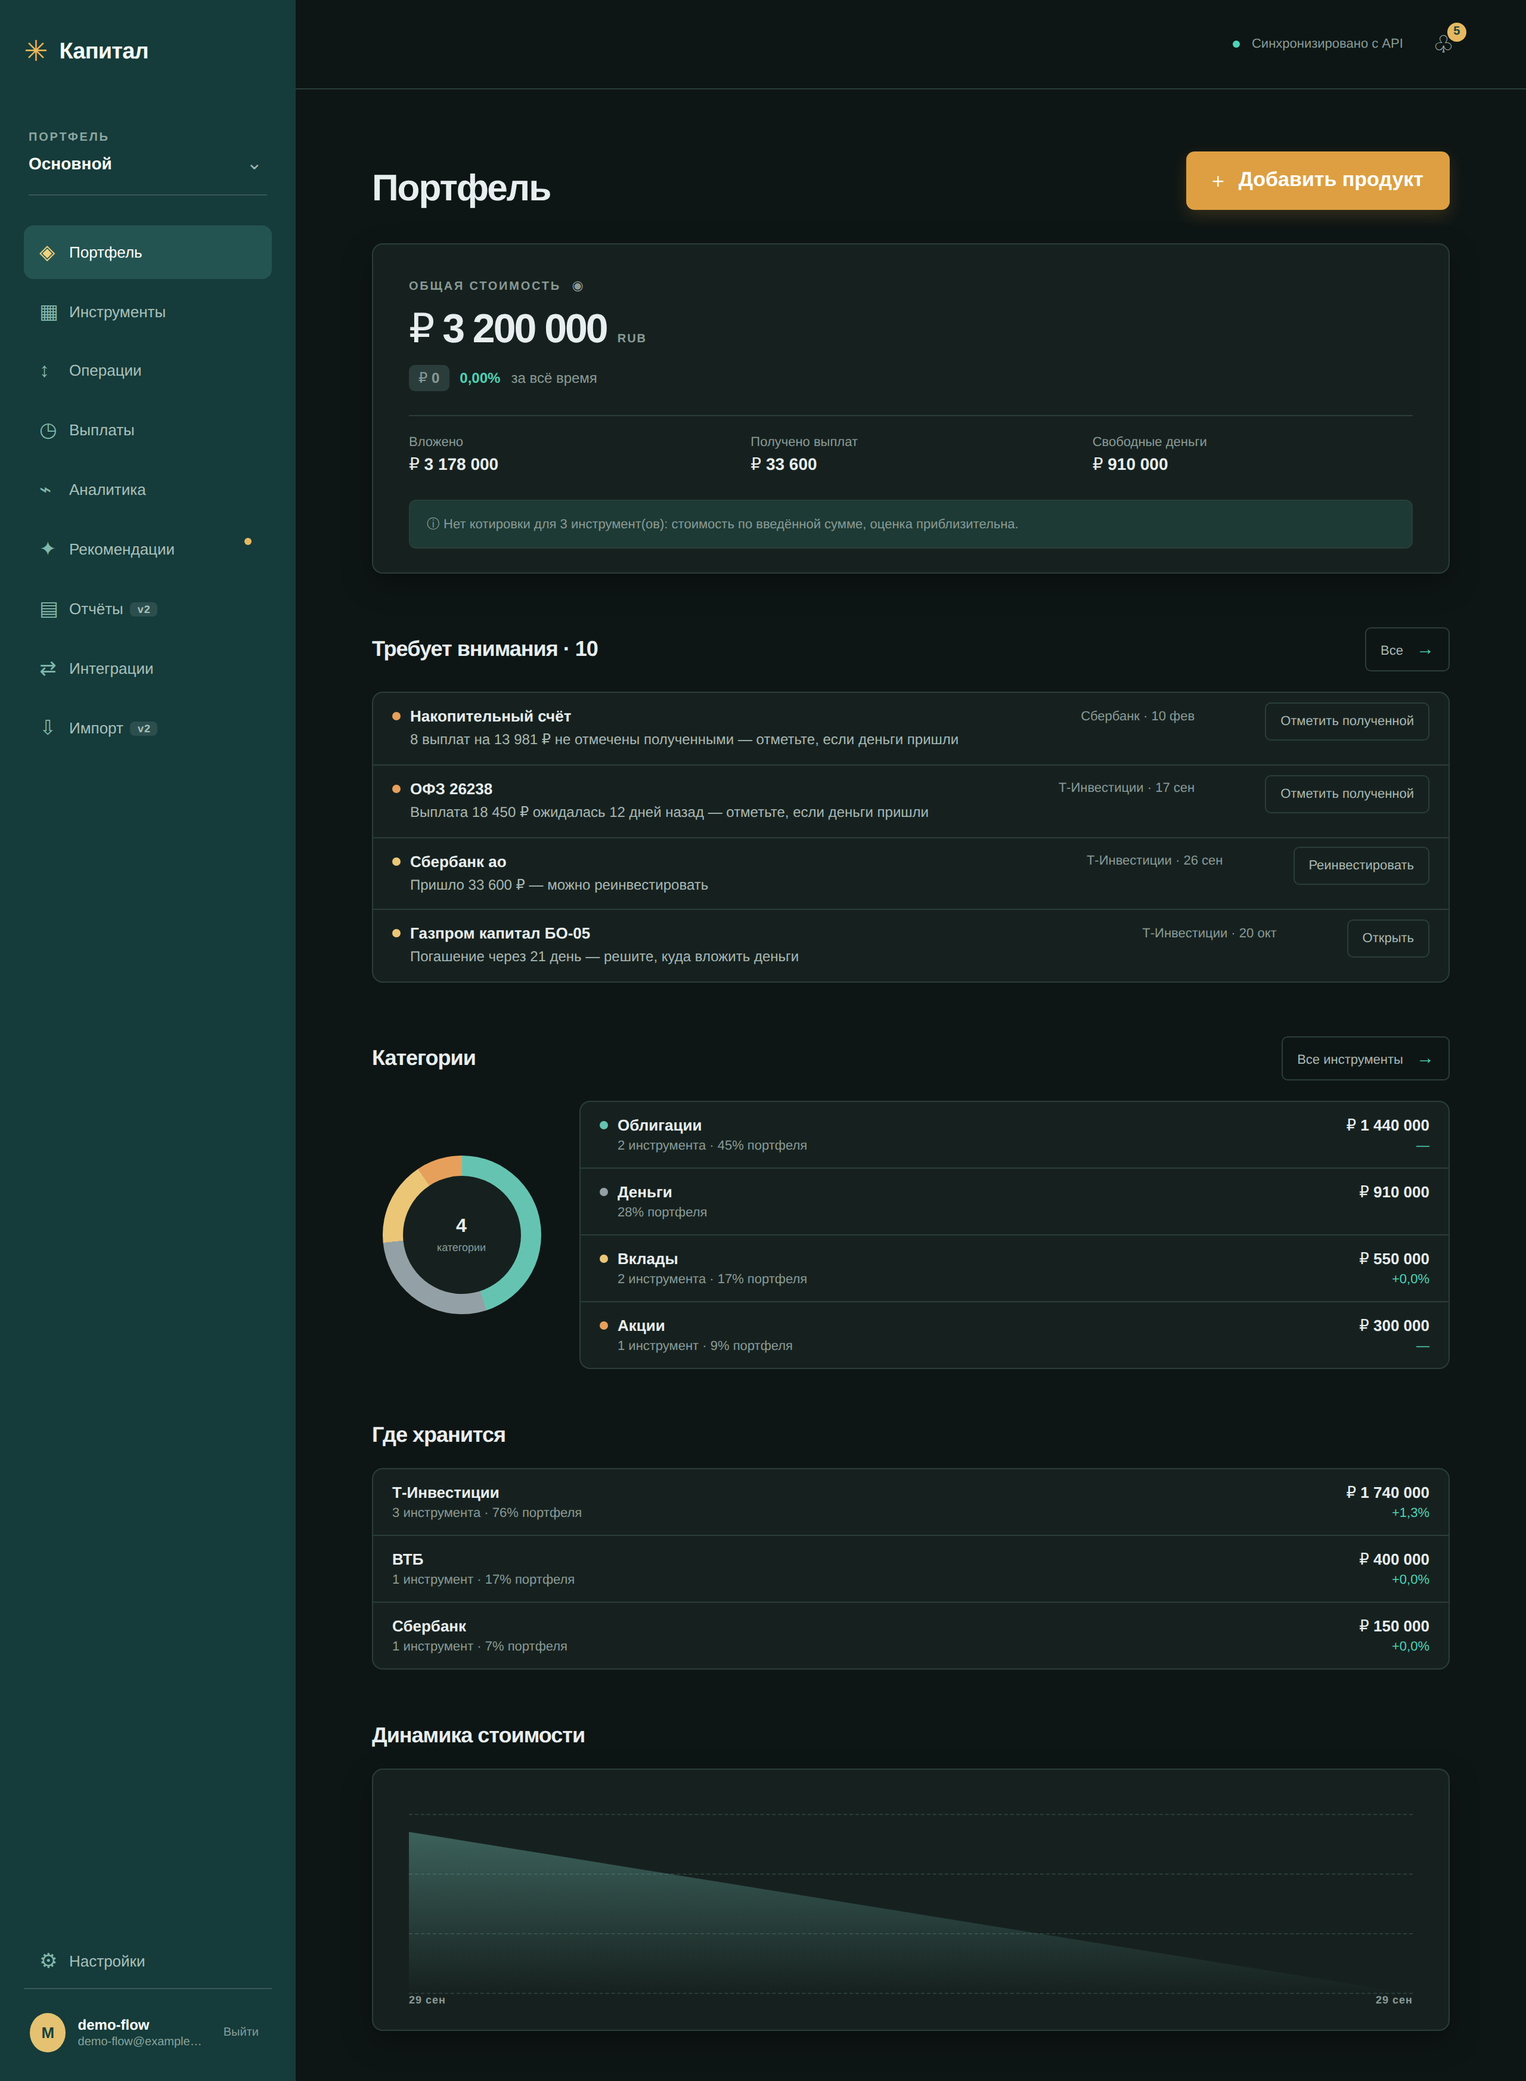
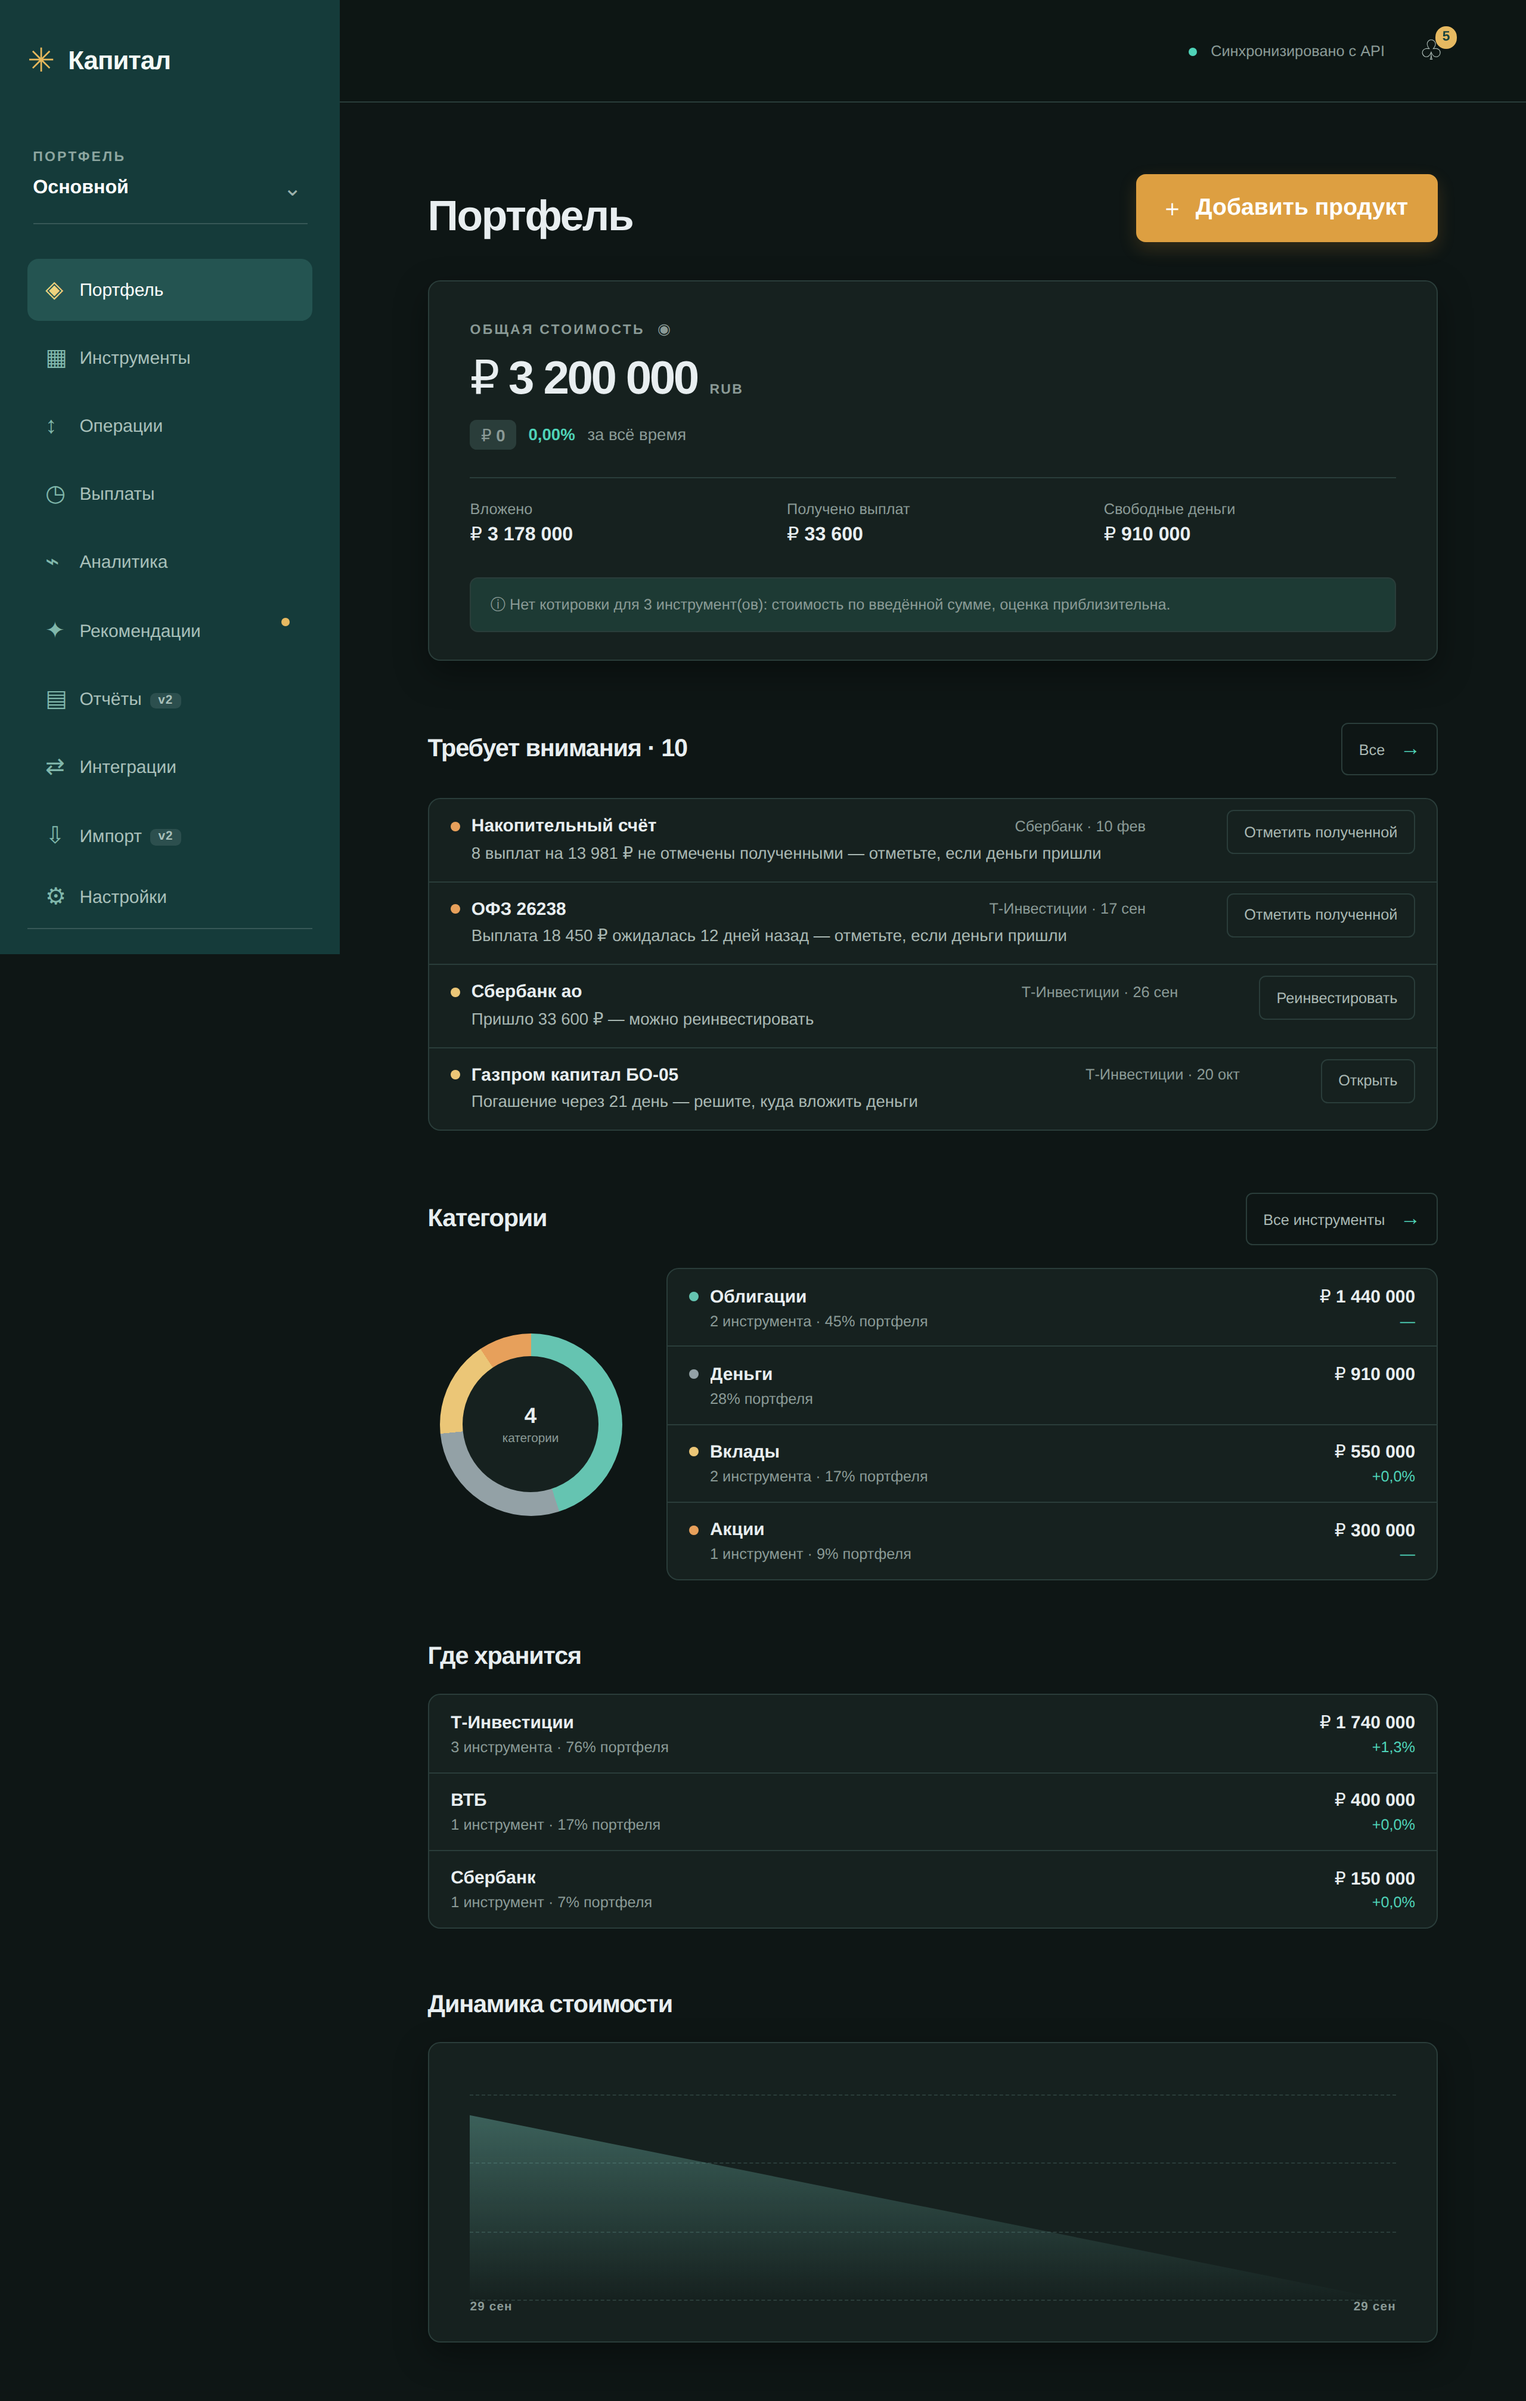
style: align attention actions column on desktop
Claude-Session: https://claude.ai/code/session_01AzHeUitv3ectGEY7bMqVRs

diff --git a/src/client-flow.css b/src/client-flow.css
@@ -20,7 +20,7 @@ a.product-row-summary, a.product-row-summary:visited, a.product-row-summary:hove
 .attention-row .product-row-summary { flex: 1; min-width: 0; }
 .attention-meta { flex: 0 0 auto; font-size: 11px; white-space: nowrap; }
 .attention-text { display: block; margin-top: 4px; padding-left: 15px; color: var(--text-secondary); font-size: 12px; line-height: 1.4; }
-.attention-actions { flex: 0 0 auto; padding: 0 16px 0 0; }
+.attention-actions { flex: 0 0 190px; padding: 0 16px 0 0; text-align: right; }
 .attention-actions .outline-button { display: inline-block; white-space: nowrap; }
 .list-row > .attention-actions { padding: 0 16px 12px 31px; }
 .attention-section + .attention-section { margin-top: 26px; }
@@ -62,7 +62,7 @@ a.product-row-summary, a.product-row-summary:visited, a.product-row-summary:hove
   .category-block .donut-wrap { display: none; }
   .slice-totals { grid-template-columns: 1fr 1fr; padding: 14px; }
   .attention-row { flex-direction: column; align-items: stretch; gap: 0; }
-  .attention-actions { padding: 0 16px 12px 31px; }
+  .attention-actions { flex-basis: auto; padding: 0 16px 12px 31px; text-align: left; }
   .page-heading .primary-button .label-short { display: inline; }
   .page-heading .primary-button .label-full { display: none; }
 }
